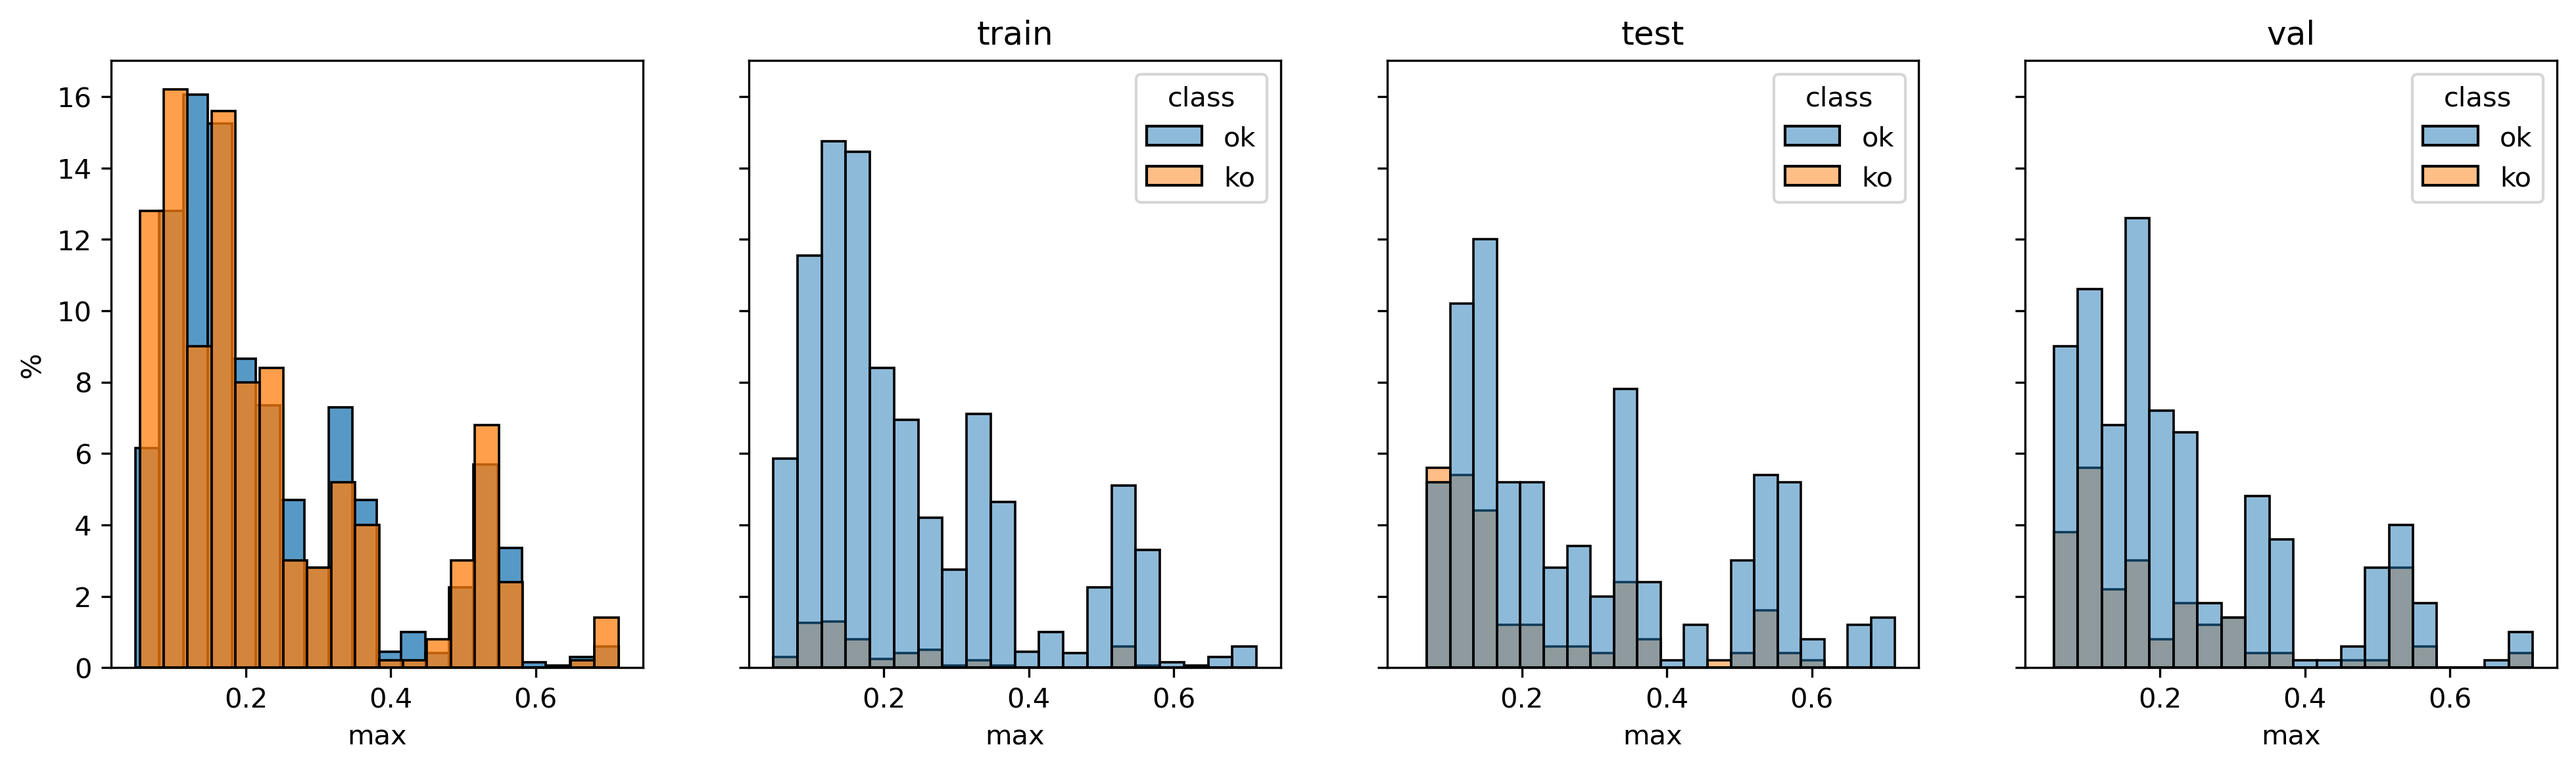
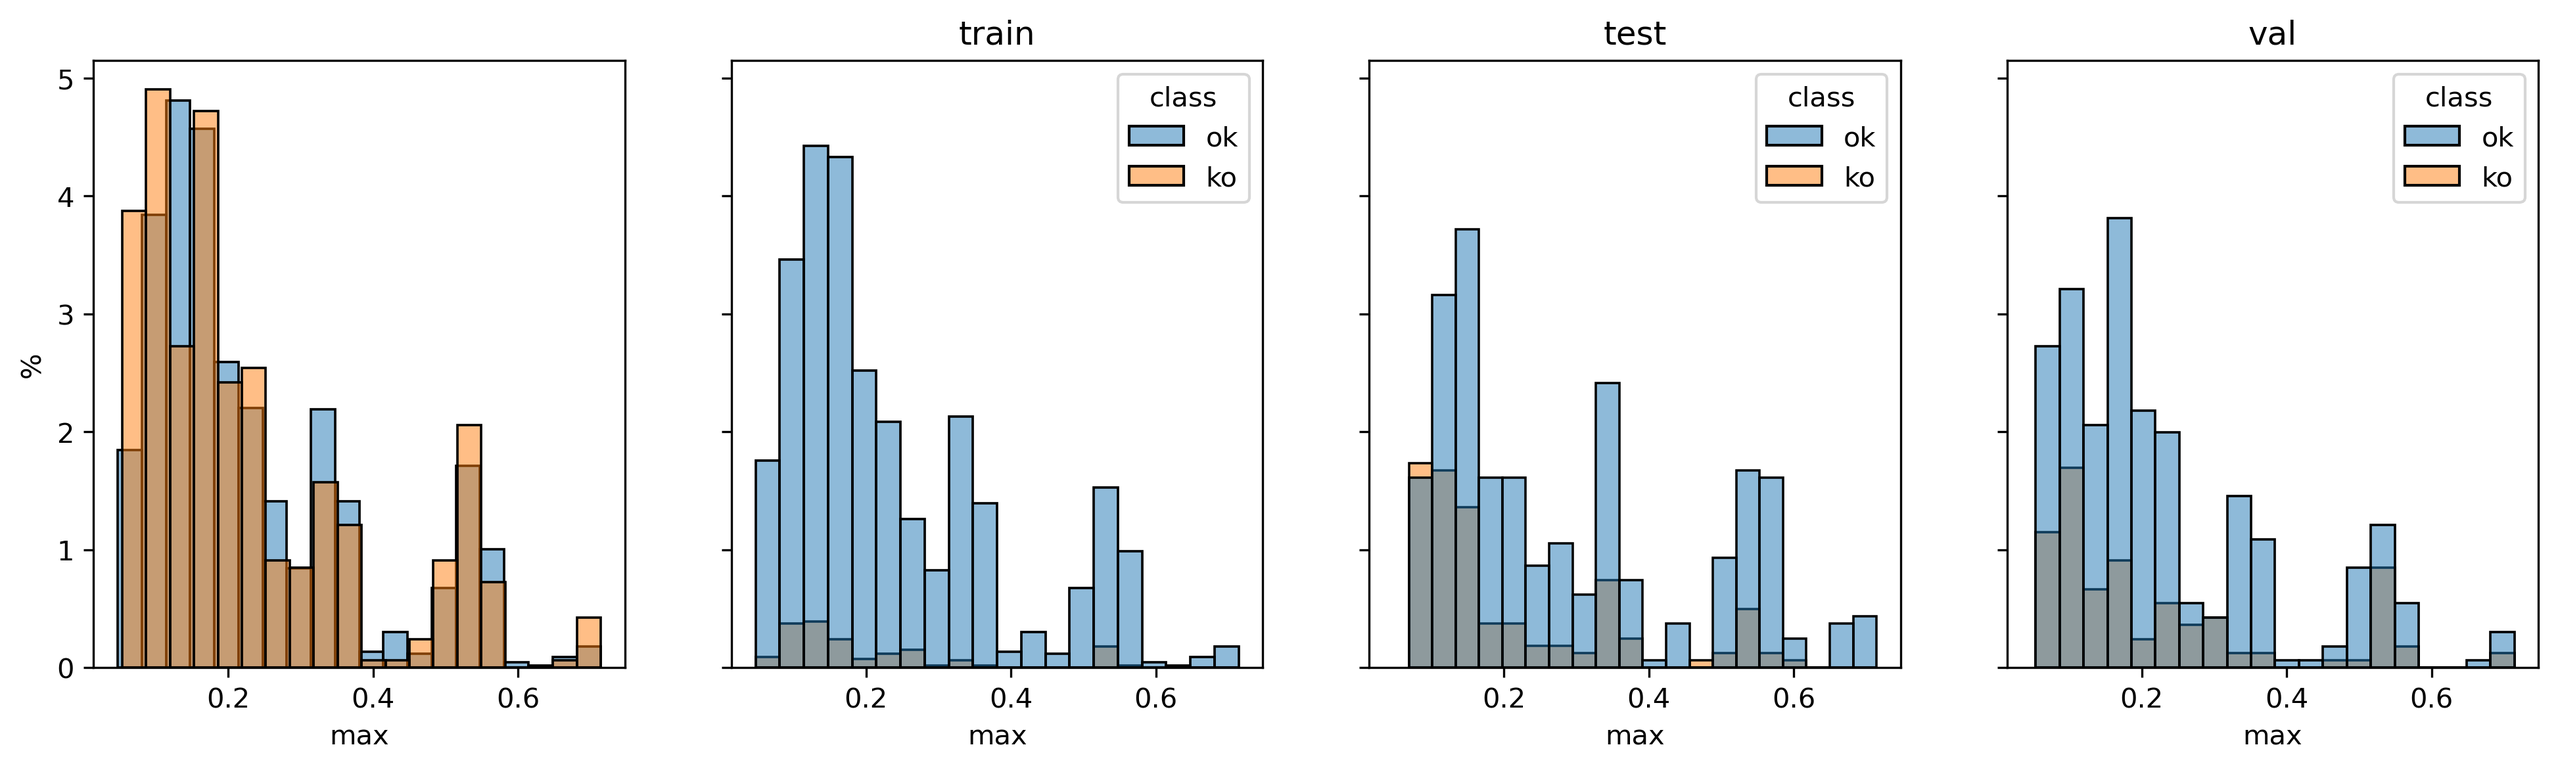
view

diff --git a/src/peepholes/peepholes.py b/src/peepholes/peepholes.py
@@ -208,15 +208,15 @@ class Peepholes:
             #---------------
             # plot oks and kos dist over val
             ax = axs[i+1]
-            sb.histplot(data=dfs[ds_key], ax=ax, bins=bins, x='score', hue='class', stat='percent', legend=True)
+            sb.histplot(data=dfs[ds_key], ax=ax, bins=bins, x='score', hue='class', stat='density', legend=True)
             ax.set_xlabel(score_type)
             ax.set_ylabel('%')
             ax.title.set_text(ds_key)
         
         # plot train and test distributions
         ax = axs[0]
-        sb.histplot(data=dfs['train'], ax=ax, bins=bins, x='score', stat='percent', legend=True)
-        sb.histplot(data=dfs['val'], ax=ax, bins=bins, x='score', stat='percent', legend=True)
+        sb.histplot(data=dfs['train'], ax=ax, bins=bins, x='score', stat='density', legend=True, alpha=0.5)
+        sb.histplot(data=dfs['val'], ax=ax, bins=bins, x='score', stat='density', legend=True, alpha=0.5)
         ax.set_ylabel('%')
         ax.set_xlabel(score_type)
 
